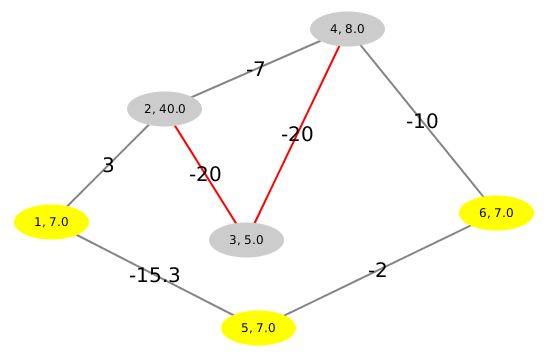
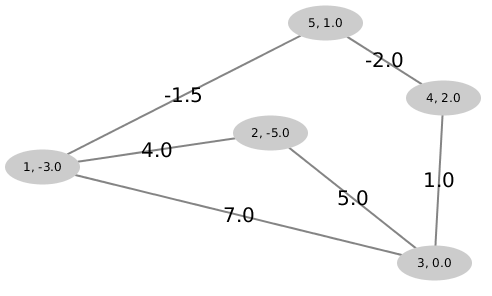
Readme with samples and description of problem

diff --git a/README.md b/README.md
@@ -37,29 +37,20 @@ Sample
 
 Node file(node_name  node_weight):
 
-    1   7.0
-    2   40.0
-    3   15.0
-    4   8.0
-    5   7.0
-    6   7.0
+    1   -3.0
+    2   -5.0
+    3   0.0
+    4   2.0
+    5   1.0
 
 Edge file(edge_from edge_to edge_weight):
 
-    1   2   3.0
-    2   3   -20.0
-    2   4   -7
-    3   4   -20.0
-    4   6   -10.0
-    5   6   -2.0
-    1   5   -15.3
-
-Signal file:
-
-    2 -- 3  3 -- 4
-    1   5   6
-    
-Yellow vertices - vertex group, red edges - edge group.
+    1   2   4.0
+    1   3   7.0
+    2   3   5.0
+    3   4   1.0
+    4   5   -2.0
+    1   5   -1.5
 
 ![Sample](/sample.png?raw=true "Sample")
 
